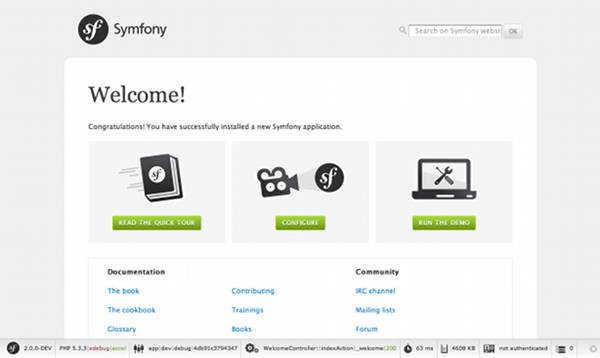
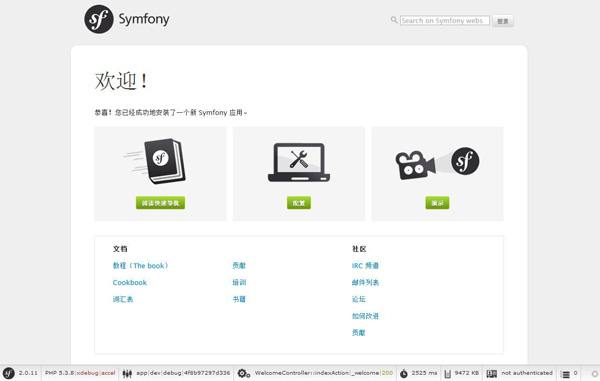
book/installation.rst translated with image

diff --git a/book/installation.rst b/book/installation.rst
@@ -1,50 +1,38 @@
 .. index::
    single: Installation
 
-Installing and Configuring Symfony
-==================================
+安装和配置 Symfony
+=============
 
-The goal of this chapter is to get you up and running with a working application
-built on top of Symfony. Fortunately, Symfony offers "distributions", which
-are functional Symfony "starter" projects that you can download and begin
-developing in immediately.
+本章的目标是帮助您在 Symfony 之上构建一个完好运行的 |application|
+幸亏 Symfony 提供 “ |distribution| ”,它是一个您可以下载并立刻开始开发工作的 Symfony “初始” |project| 。
 
 .. tip::
 
-    If you're looking for instructions on how best to create a new project
-    and store it via source control, see `Using Source Control`_.
+    如果您再找如何最好地创建新项目并通过 |source control| 存储的指南，请查阅 `Using Source Control`_ 。
 
-Downloading a Symfony2 Distribution
------------------------------------
+下载 Symfony2 |distribution|
+--------------------------
 
 .. tip::
 
-    First, check that you have installed and configured a Web server (such
-    as Apache) with PHP 5.3.2 or higher. For more information on Symfony2
-    requirements, see the :doc:`requirements reference</reference/requirements>`.
-    For information on configuring your specific web server document root, see the
-    following documentation: `Apache`_ | `Nginx`_ .
+    首先，检查你已经安装和配置了 |web server| （例如： Apache）和 PHP 5.3.2 或更高版本。
+    更多关于 Symfony2 安装需求的信息，请参见 :doc:`requirements reference</reference/requirements>` 。
+    更多关于配置您的 |web server| 文档根目录的信息，请参见文档： `Apache`_ | `Nginx`_ 。
 
-Symfony2 packages "distributions", which are fully-functional applications
-that include the Symfony2 core libraries, a selection of useful bundles, a
-sensible directory structure and some default configuration. When you download
-a Symfony2 distribution, you're downloading a functional application skeleton
-that can be used immediately to begin developing your application.
+Symfony2 “ |distribution| ”包是一个包含 Symfony2 核心库、 |bundle| 选集、一个合理目录结构和一些默认配置，功能齐全的 |application| ，
+当你现在了一个 Symfony2 |distribution| ，您下载了一个可以立即用于开发您的 |application| 的 功能型 |application| 骨架。
 
-Start by visiting the Symfony2 download page at `http://symfony.com/download`_.
-On this page, you'll see the *Symfony Standard Edition*, which is the main
-Symfony2 distribution. Here, you'll need to make two choices:
+首先访问 Symfony2 下载页面  `http://symfony.com/download`_ 。
+在这个页面上，您将看到 Symfony2 的主力 |distribution| —— |*Symfony Standard Edition*| 。
+这里，您需要做出选择：
 
-* Download either a ``.tgz`` or ``.zip`` archive - both are equivalent, download
-  whatever you're more comfortable using;
+* 下载 ``.tgz`` 或者 ``.zip`` 压缩文档 —— 两者完全一样， 下载您觉得习惯用的一个；
 
-* Download the distribution with or without vendors. If you have `Git`_ installed
-  on your computer, you should download Symfony2 "without vendors", as it
-  adds a bit more flexibility when including third-party/vendor libraries.
+* 下载包含或者不带 |vendors| 的 |distribution| 。 如果您安装了  `Git`_ ，
+  您应该下载“ |without vendors| ”的 Symfony2，因为这样可以更加灵活地加载第三方（vendor）库。
 
-Download one of the archives somewhere under your local web server's root
-directory and unpack it. From a UNIX command line, this can be done with
-one of the following commands (replacing ``###`` with your actual filename):
+将一个压缩包下载到您的本地 |web server| 根目录并对其解压。 在 UNIX 命令行中，可以使用如下一个命令实现（以您的实际文件名替代 ``###`` ）：
 
 .. code-block:: bash
 
@@ -54,8 +42,7 @@ one of the following commands (replacing ``###`` with your actual filename):
     # for a .zip file
     unzip Symfony_Standard_Vendors_2.0.###.zip
 
-When you're finished, you should have a ``Symfony/`` directory that looks
-something like this:
+完成上面的工作后，您应该有一个 ``Symfony/`` 目录，其目录结构是这样的：
 
 .. code-block:: text
 
@@ -75,68 +62,58 @@ something like this:
 
 .. _installation-updating-vendors:
 
-Updating Vendors
-~~~~~~~~~~~~~~~~
+更新 |Vendors|
+~~~~~~~~~~~~
 
-Step 1: Get `Composer`_ (The great new PHP packaging system)
+第 1 步：获取 `Composer`_ （一个优秀的 PHP 打包系统）
 
 .. code-block:: bash
 
     curl -s http://getcomposer.org/installer | php
 
-Make sure you download ``composer.phar`` in the same folder where
-the ``composer.json`` file is located (this is your Symfony project
-root by default).
+确保将 ``composer.phar`` 下载都 ``composer.json`` 所在文件夹（即 Symfony |project| 的默认根目录）。
 
-Step 2: Install vendors
+第 2 步：安装 |vendors|
 
 .. code-block:: bash
 
     php composer.phar install
 
-This command downloads all of the necessary vendor libraries - including
-Symfony itself - into the ``vendor/`` directory.
+该命令下载所有必要的 |vendor| 库 —— 包括 Symfony 自身 —— 到 ``vendor/`` 目录。
 
 .. note::
 
-	If you don't have ``curl`` installed, you can also just download the ``installer``
-	file manually at http://getcomposer.org/installer. Place this file into your
-	project and then run:
+	如果您没有安装 ``curl`` ，可以从  http://getcomposer.org/installer 下载 ``installer`` ，
+   将其存放于 |project| 目录并运行：
 
 	.. code-block:: bash
 
 		php installer
 		php composer.phar install
 
-Configuration and Setup
-~~~~~~~~~~~~~~~~~~~~~~~
+配置与设置
+~~~~~
 
-At this point, all of the needed third-party libraries now live in the ``vendor/``
-directory. You also have a default application setup in ``app/`` and some
-sample code inside the ``src/`` directory.
+到此为止，所有的第三方库都存放在 ``vendor/`` 目录。
+您还有一个默认的 |application| 设置 ``app/`` 以及 ``src/`` 目录下的一些范例代码。
 
-Symfony2 comes with a visual server configuration tester to help make sure
-your Web server and PHP are configured to use Symfony. Use the following URL
-to check your configuration:
+Symfony2 带有一个可视的服务器配置测试，用来帮助确保 |web server| 和 PHP 按照 Symfony 要求被设置。
+访问下面的 URL 测试您的配置：
 
 .. code-block:: text
 
     http://localhost/Symfony/web/config.php
 
-If there are any issues, correct them now before moving on.
+如果出现问题，逐一更正它们后继续。
 
-.. sidebar:: Setting up Permissions
+.. sidebar:: 设置 |permission|
 
-    One common issue is that the ``app/cache`` and ``app/logs`` directories
-    must be writable both by the web server and the command line user. On
-    a UNIX system, if your web server user is different from your command
-    line user, you can run the following commands just once in your project
-    to ensure that permissions will be setup properly. Change ``www-data``
-    to your web server user:
+    一个常见问题是 ``app/cache`` 和 ``app/logs`` 目录对于 |web server| 和 命令行用户必须是可写的。
+    在 UNIX 系统中，如果您有不同的 |web server| 用户和命令行用户，可以在 |project| 中运行下面的命令一次确保 |permission| 被正确设置。 更改 |web server| 用户的  ``www-data`` ：
 
-    **1. Using ACL on a system that supports chmod +a**
+    **1. 在允许 chmod +a 的系统上使用 ACL**
 
-    Many systems allow you to use the ``chmod +a`` command. Try this first,
+    很多系统允许使用 ``chmod +a`` 命令。先这样试一下，如果得到错误信息尝试下一种方法：
     and if you get an error - try the next method:
 
     .. code-block:: bash
@@ -147,26 +124,19 @@ If there are any issues, correct them now before moving on.
         sudo chmod +a "www-data allow delete,write,append,file_inherit,directory_inherit" app/cache app/logs
         sudo chmod +a "`whoami` allow delete,write,append,file_inherit,directory_inherit" app/cache app/logs
 
-    **2. Using Acl on a system that does not support chmod +a**
+    **2. 在不允许 chmod +a 的系统上使用 ACL**
 
-    Some systems don't support ``chmod +a``, but do support another utility 
-    called ``setfacl``. You may need to `enable ACL support`_ on your partition
-    and install setfacl before using it (as is the case with Ubuntu), like 
-    so:
+    有些系统不支持 ``chmod +a`` ，但是支持另一个名为  ``setfacl`` 的工具。您可需要在使用前，在分区上  `启用 ACL 支持`_ 并安装 （Ubuntu就是这样），如下所示：
 
     .. code-block:: bash
 
         sudo setfacl -R -m u:www-data:rwx -m u:`whoami`:rwx app/cache app/logs
         sudo setfacl -dR -m u:www-data:rwx -m u:`whoami`:rwx app/cache app/logs
 
-    **3. Without using ACL**
+    **3. 不使用 ACL**
 
-    If you don't have access to changing the ACL of the directories, you will
-    need to change the umask so that the cache and log directories will
-    be group-writable or world-writable (depending if the web server user
-    and the command line user are in the same group or not). To achieve
-    this, put the following line at the beginning of the ``app/console``,
-    ``web/app.php`` and ``web/app_dev.php`` files:
+    如果不能访问目录的 ACL ，可以更改 umask 使得 cache 和 log 两个目录称为组可写或者全局可写（取决于 |web server| 用户和命令行用户是否在一个组）
+    通过将下列放在 ``app/console``、    ``web/app.php`` 和 ``web/app_dev.php`` 文件的开始做到：
 
     .. code-block:: php
 
@@ -176,62 +146,51 @@ If there are any issues, correct them now before moving on.
 
         umask(0000); // This will let the permissions be 0777
 
-    Note that using the ACL is recommended when you have access to them
-    on your server because changing the umask is not thread-safe.
+    建议在可以访问目录的 ACL 的情形下使用 ACL，因为更改 umask 会带来安全隐患。
 
-When everything is fine, click on "Go to the Welcome page" to request your
-first "real" Symfony2 webpage:
+一切就绪之后，点击 "Go to the Welcome page" 第一次 |request| “真正的” Symfony2 网页：
 
 .. code-block:: text
 
     http://localhost/Symfony/web/app_dev.php/
 
-Symfony2 should welcome and congratulate you for your hard work so far!
+Symfony2 会欢迎并且为您之前的努力成果表示恭喜！
 
 .. image:: /images/quick_tour/welcome.jpg
 
-Beginning Development
----------------------
+开始开发
+----
 
-Now that you have a fully-functional Symfony2 application, you can begin
-development! Your distribution may contain some sample code - check the
-``README.rst`` file included with the distribution (open it as a text file)
-to learn about what sample code was included with your distribution and how
-you can remove it later.
+现在您有了一个全功能的 Symfony2 |application|, 可以开始开发了！
+|distribution| 中应该包含一些范例代码 —— 查看 |distribution| 中的
+``README.rst`` 文件（以文本文件方式打开），查看 |distribution| 中包含哪些范例代码以及如何移除它们。
 
-If you're new to Symfony, join us in the ":doc:`page_creation`", where you'll
-learn how to create pages, change configuration, and do everything else you'll
-need in your new application.
+如果您是 Symfony 新用户，随我们一起进入 ":doc:`page_creation`" ，
+学习如何创建页面、更改配置以及其他新 |application| 需要做的工作。
 
-Using Source Control
---------------------
+使用 |source control|
+-------------------
 
-If you're using a version control system like ``Git`` or ``Subversion``, you
-can setup your version control system and begin committing your project to
-it as normal. The Symfony Standard edition *is* the starting point for your
-new project.
+如果您在使用类似于 ``Git`` 和 ``Subversion`` 的 |version control| 系统，在设置 |version control| ，在设置 |version control| 系统后就可以开始正常提交 |project|
+|Symfony Standard Edition| *是* 新 |project| 的起点。
 
-For specific instructions on how best to setup your project to be stored
-in git, see :doc:`/cookbook/workflow/new_project_git`.
+关于如何最好地使用 git 存储项目的指南，请参见 :doc:`/cookbook/workflow/new_project_git`.
 
-Ignoring the ``vendor/`` Directory
-~~~~~~~~~~~~~~~~~~~~~~~~~~~~~~~~~~
+忽略 ``vendor/`` 目录
+~~~~~~~~~~~~~~~~~
 
-If you've downloaded the archive *without vendors*, you can safely ignore
-the entire ``vendor/`` directory and not commit it to source control. With
-``Git``, this is done by creating and adding the following to a ``.gitignore``
-file:
+如果下载的是 |*without vendors*| 的压缩包，整个 ``vendor/`` 目录可以安全地被忽略并提交至 |source control| 。
+ 就 ``Git`` 而言，通过创建 ``.gitignore`` 文件并添加如下内容来实现：
 
 .. code-block:: text
 
     vendor/
 
-Now, the vendor directory won't be committed to source control. This is fine
-(actually, it's great!) because when someone else clones or checks out the
-project, he/she can simply run the ``php composer.phar install`` script to
-download all the necessary vendor libraries.
+现在， vendor 目录不会被提交至 |source control| 。 
+因为其他人 |clone| 或者 |check out| |project| 之后，
+可以简单地运行 ``php composer.phar install`` 下载所需的 |vendor| 库。
 
-.. _`enable ACL support`: https://help.ubuntu.com/community/FilePermissionsACLs
+.. _`启用 ACL 支持`: https://help.ubuntu.com/community/FilePermissionsACLs
 .. _`http://symfony.com/download`: http://symfony.com/download
 .. _`Git`: http://git-scm.com/
 .. _`GitHub Bootcamp`: http://help.github.com/set-up-git-redirect
@@ -239,3 +198,4 @@ download all the necessary vendor libraries.
 .. _`Apache`: http://httpd.apache.org/docs/current/mod/core.html#documentroot
 .. _`Nginx`: http://wiki.nginx.org/HttpCoreModule#root
 
+.. include:: ../_terminology.rst

diff --git a/_terminology.rst b/_terminology.rst
@@ -1,4 +1,17 @@
+.. |Symfony Standard Edition| replace:: Symfony 标准版
+.. |*Symfony Standard Edition*| replace:: *Symfony 标准版*
 .. |framework| replace:: 架构
+.. |distribution| replace:: 分发
+.. |source control| replace:: 源代码控制
+.. |version control| replace:: 版本控制
+.. |permission| replace:: 权限
+.. |web server| replace:: 网页服务器
+.. |without vendors| replace:: 无第三方库
+.. |*without vendors*| replace:: *无第三方库*
+.. |vendors| replace:: 第三方库
+.. |vendor| replace:: 第三方库
+.. |clone| replace:: 克隆
+.. |check out| replace:: 签出
 .. |project| replace:: 项目
 .. |``Kernel``| replace:: 内核
 .. |domain| replace:: 域
